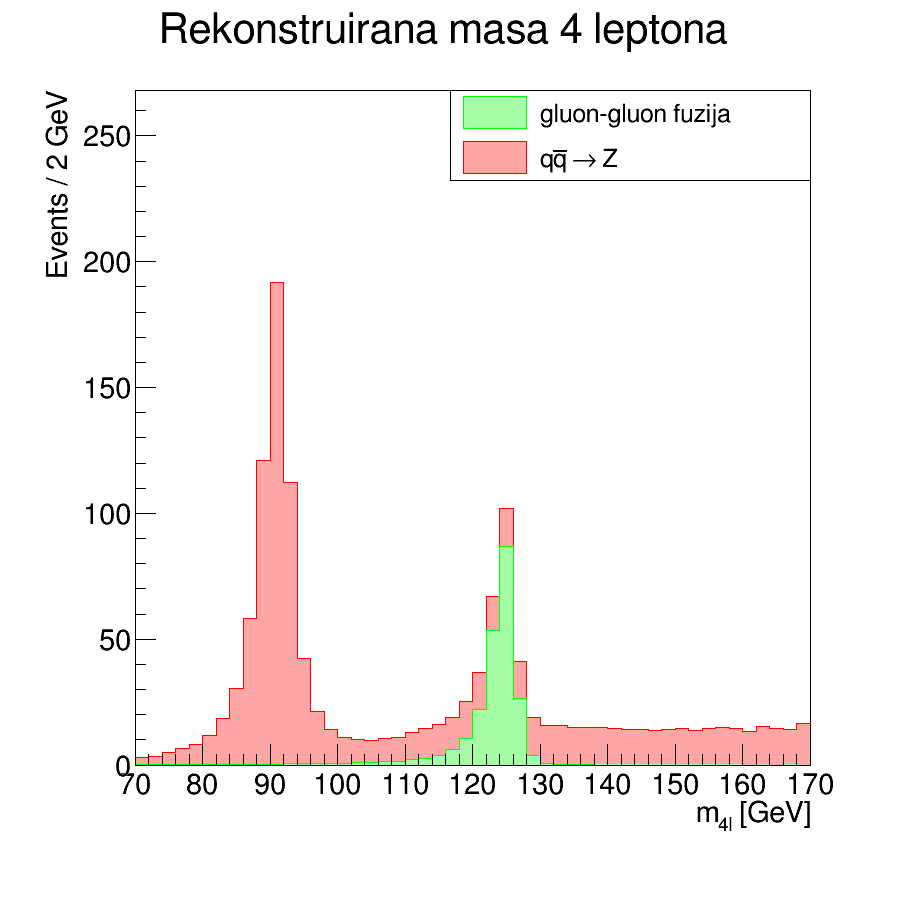
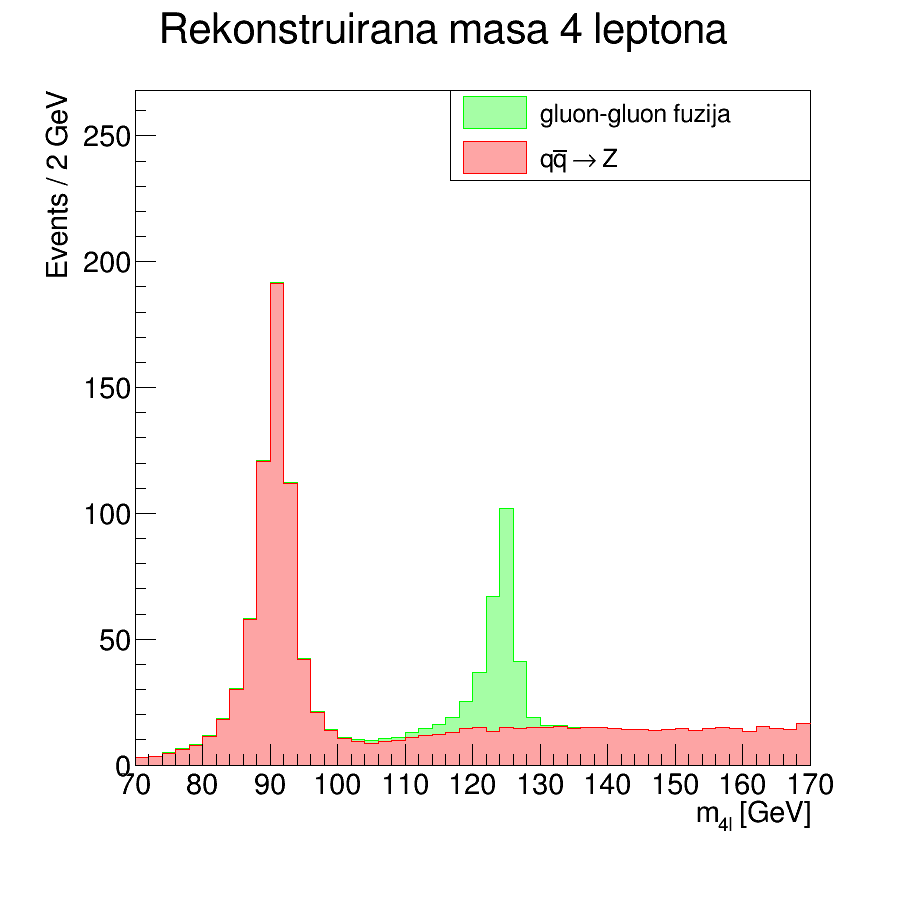
vjezbe7

diff --git a/Vjezbe_7/Analyzer.cpp b/Vjezbe_7/Analyzer.cpp
@@ -294,8 +294,9 @@ void Analyzer::PlotMass(){
 	Mass_hist_background -> SetLineColor (kRed);
 	Mass_hist_background -> SetFillColorAlpha (kRed, 0.35);
 	Mass_hist -> SetTitle ("Rekonstruirana masa 4 leptona");
-        Mass_hist -> Add (Mass_hist_signal);
+        //Mass_hist -> Add (Mass_hist_signal);
 	Mass_hist -> Add (Mass_hist_background);
+	Mass_hist -> Add (Mass_hist_signal);
 	Mass_hist -> Draw ("HIST");
 	Mass_hist -> GetXaxis () -> SetTitle ("m_{4l} [GeV]");
         Mass_hist -> GetYaxis () -> SetTitle ("Events / 2 GeV");
